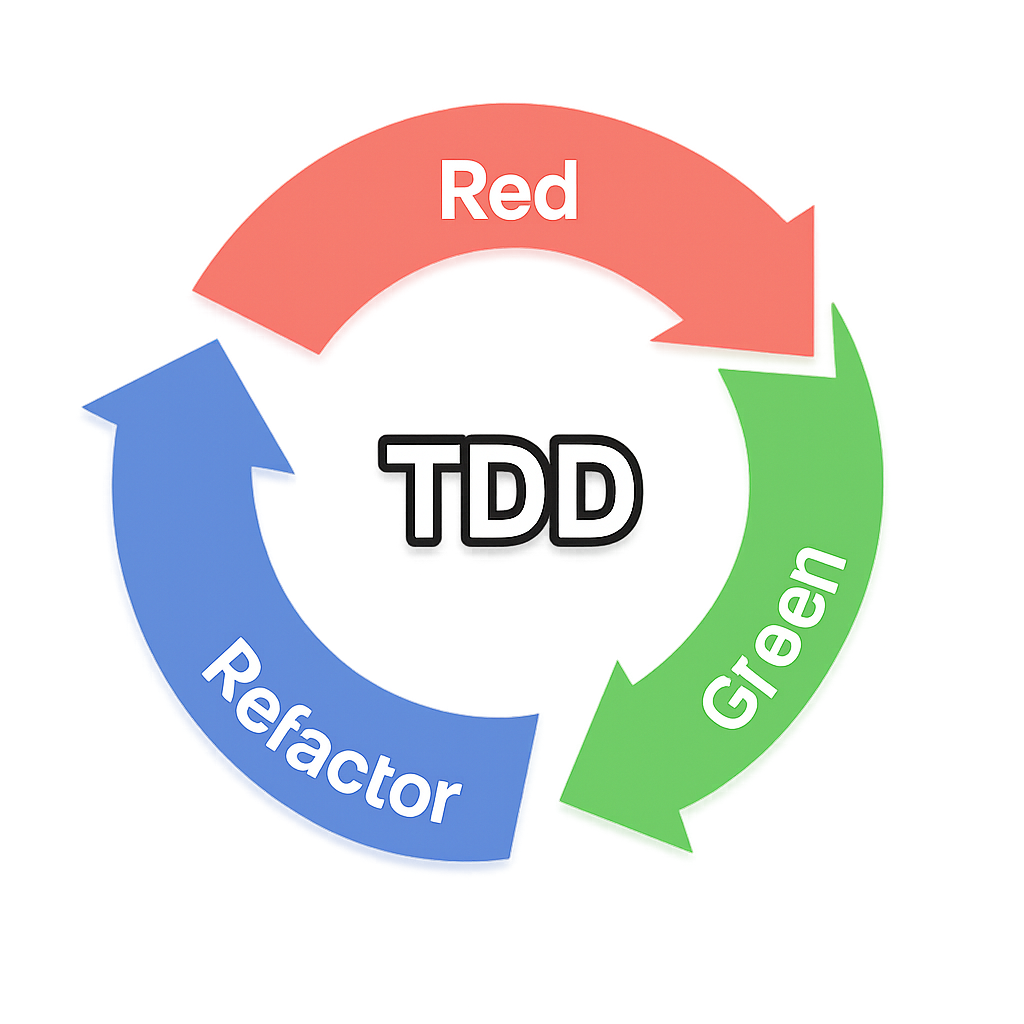
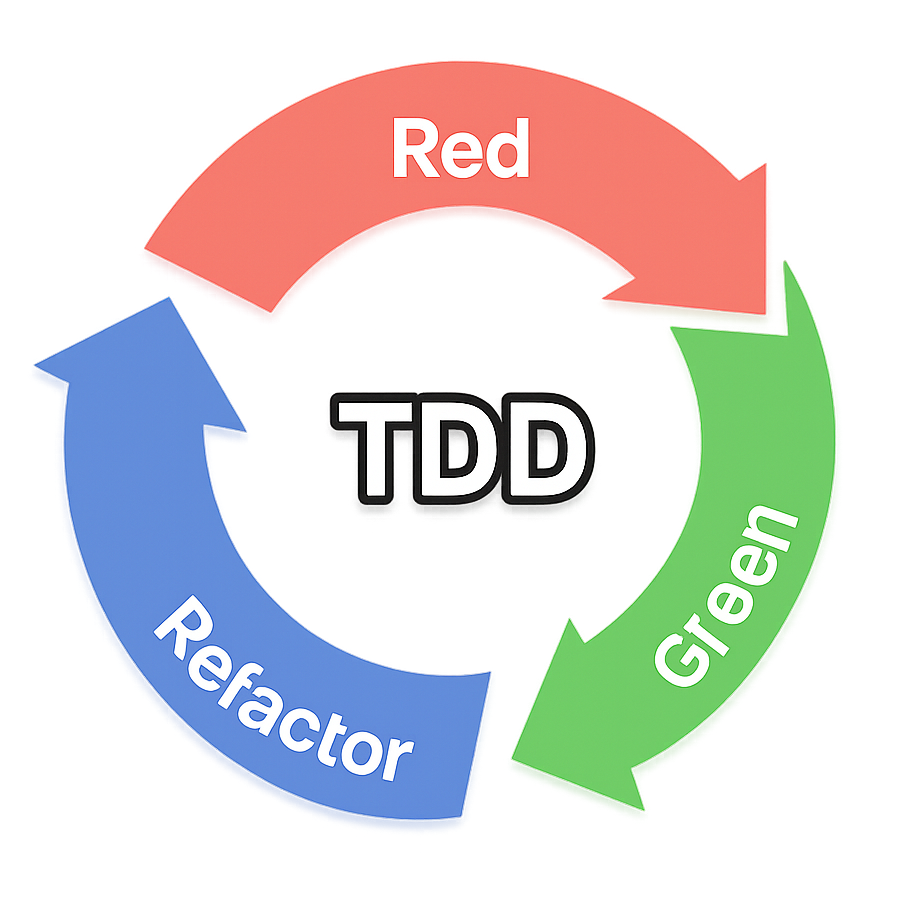
fix: logo画像のwebpフォーマット化

Changed region(s): [[0.0311, 0.0622, 0.9333, 0.9333], [0.3422, 0.4044, 0.6844, 0.5911], [0.3422, 0.28, 0.3733, 0.3111]]

diff --git a/docs/index.md b/docs/index.md
@@ -7,7 +7,7 @@ hero:
   text: "Test-Driven Development with TypeScript"
   tagline: テスト駆動開発の実践的パターンガイド
   image:
-    src: /images/tdd-cycle.png
+    src: /images/tdd-cycle.webp
     alt: TDD Cycle
   actions:
     - theme: brand
